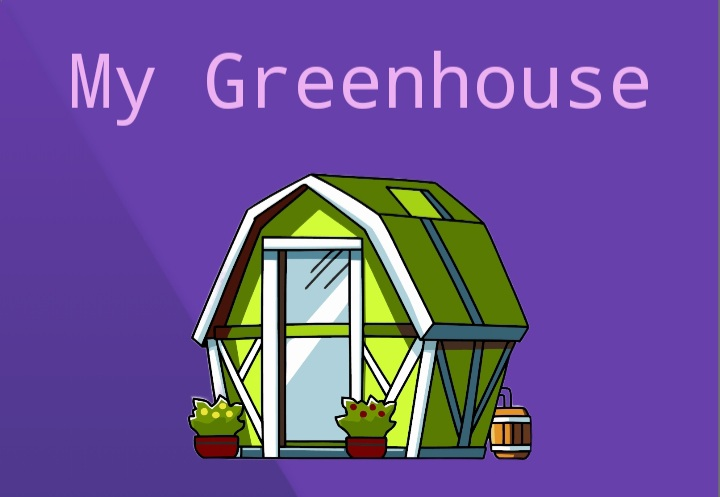
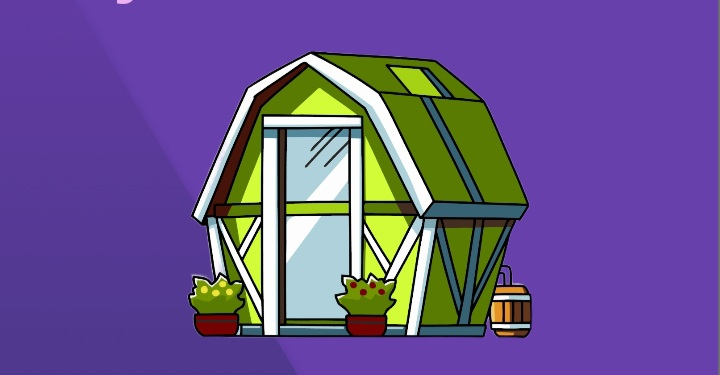
Добавил 3 из своих проектов в сетку
- Ненужный css
+ Работоспособоность 2 кнопок на navbar, сделал плавный скролл
+ Более-менее сделал нормальные фотографии на задние планы проектов

diff --git a/public_html/static/style/style.css b/public_html/static/style/style.css
@@ -4,12 +4,8 @@
     margin: 0;
 }
 
-ul > li {
-    list-style: circle;
-}
-
-.article {
-    text-align: justify;
+html {
+    scroll-behavior: smooth;
 }
 
 section {
@@ -31,12 +27,20 @@ body {
     font-family: 'Roboto', sans-serif;
 }
 
-.title {
-    color: lightblue;
+.section-title {
+    text-align: center;
+    margin-bottom: 5%;
+    font-size: 48px
 }
+
+/* Navbar */
 
 #site-brand {
     max-width: 40px;
+}
+
+#navbar-divizor {
+    display: none;
 }
 
 .navbar {
@@ -71,6 +75,14 @@ body {
     flex-basis: content;
 }
 
+/* Первая секция с краткой информацией обо мне (Лендинг)*/
+
+#myself-top-img {
+    max-width: 367px;
+    max-height: 569px;
+    height: 10%;
+}
+
 .about-me {
     flex-direction: row;
     justify-content: space-between;
@@ -86,68 +98,6 @@ body {
 
 .about-me div * {
     margin-block: 20px;
-}
-
-.projects {
-    display: block;
-}
-
-.project-grid {
-    display: grid;
-    grid-template-rows: repeat(2, 250px);
-    grid-template-columns: repeat(auto-fit, minmax(250px, 1fr));
-    grid-auto-rows: 250px;
-    gap: 1rem;
-}
-
-.project-item {
-    position: relative;
-    overflow: hidden;
-    display: flex;
-    flex-direction: column;
-    justify-content: space-between;
-    background-color: #333;
-    box-shadow: 3px 5px wheat;
-    padding: 10px;
-}
-
-.project-title {
-    width: fit-content;
-    font-weight: bold;
-    font-size: 24px;
-    background-color: #222;
-    padding: 5px;
-}
-
-.project-item *[class^="project"] {
-    z-index: 1;
-}
-
-.transparent-bg {
-    position: absolute;
-    top: 0;
-    left: -10px;
-    object-fit: contain;
-    width: auto;
-    height: 100%;
-    opacity: 0.3;
-    transition: 0.5s;
-}
-
-
-.hover-reveal:hover {
-    opacity: 1;
-    z-index: 2;
-}
-
-#navbar-divizor {
-    display: none;
-}
-
-#myself-top-img {
-    max-width: 367px;
-    max-height: 569px;
-    height: 10%;
 }
 
 .socials {
@@ -177,6 +127,81 @@ body {
     background: url("../img/email.png") no-repeat center;
 }
 
+/* Вторая секция с проектами */
+
+.projects {
+    display: block;
+}
+
+.project-grid {
+    display: grid;
+    grid-template-rows: repeat(2, 250px);
+    grid-template-columns: repeat(auto-fit, minmax(250px, 1fr));
+    grid-auto-rows: 250px;
+    gap: 1rem;
+}
+
+.project-item {
+    position: relative;
+    overflow: hidden;
+    display: flex;
+    flex-direction: column;
+    background-color: #333;
+    box-shadow: 3px 5px wheat;
+    padding: 10px;
+}
+
+.project-title {
+    width: fit-content;
+    font-weight: bold;
+    font-size: 24px;
+    margin-bottom: 10px;
+    background-color: #222;
+    padding: 5px;
+}
+
+.project-item > *[class^="project"] {
+    z-index: 1;
+    text-shadow: 1px 1px blue;
+}
+
+.project-theme {
+    margin-top: auto;
+    font-size: small;
+}
+
+.transparent-bg {
+    position: absolute;
+    top: 0;
+    left: 0;
+    width: 100%;
+    height: 100%;
+    background-size: auto 100%;
+    background-position: center;
+    opacity: 0.15;
+    transition: 0.75s;
+}
+
+.hover-reveal:hover {
+    opacity: 1;
+    z-index: 2;
+}
+
+.greenhouse-bg {
+    background-image: url("../img/greenhouse-bg.jpg");
+}
+
+.discord-bg {
+    background-image: url("../img/discord_bot_bg.png");
+    background-position: left;
+}
+
+.youtube-bg {
+    background-image: url("../img/youtube-bg.png");
+    background-position: left;
+}
+
+
 @media (max-width: 1200px) {
     #myself-top-img {
         width: 100%;
@@ -189,14 +214,8 @@ body {
 }
 
 @media (max-width: 700px) {
-    #myself-top-img {
-        display: none;
-    }
+    /* Navbar */
 
-    .about-me div {
-        width: 100%;
-    }
-    
     .navbar {
         flex-direction: column;
         justify-content: space-between;
@@ -218,14 +237,15 @@ body {
 
     .navbar-links {
         text-align: center;
-        /* border: 2px solid green; */
     }
-}
 
-.small-text {
-    font-size: 0.75em;
-}
+    /* Первая секция обо мне */
 
-.big-text {
-    font-size: 2em;
+    #myself-top-img {
+        display: none;
+    }
+
+    .about-me div {
+        width: 100%;
+    }
 }

diff --git a/public_html/index.html b/public_html/index.html
@@ -17,16 +17,16 @@
     <header>
         <div class="navbar">
             <img src="static/img/hacker.png" id="site-brand">
-            <h2 class="navbar-title">N1qro the dev</h2>
+            <h2 class="navbar-title">andycodes.ru</h2>
             <hr id="navbar-divizor">
             <div class="navbar-links">
-                <a href="#">Обо мне</a>
-                <a href="#">Портфолио</a>
+                <a href="#about-me">Обо мне</a>
+                <a href="#projects">Портфолио</a>
                 <a href="#">Связаться со мной</a>
             </div>
         </div>
     </header>
-    <section class="about-me">
+    <section class="about-me" id="about-me">
         <div>
             <h2>Новиков Андрей</h2>
             <p>- Moscow, Russia</p>
@@ -41,26 +41,26 @@
         </div>
         <img src="static/img/me.png" alt="Andrey" id="myself-top-img">
     </section>
-    <section class="projects">
-        <h2>Мои проекты</h2>
+    <section class="projects" id="projects">
+        <h2 class="section-title">Мои проекты</h2>
         <div class="project-grid">
             <div class="project-item">
-                <img class="transparent-bg hover-reveal" src="static/img/greenhouse-bg.jpg">
+                <div class="transparent-bg greenhouse-bg hover-reveal"></div>
                 <p class="project-title">Greenhouse app</p>
-                <p class="project-description">
-                    Андроид приложение для удалённого управления теплицей.
-                <p class="project-theme">
-                    Созданно специально для предпроф олимпиады школьников. Используя Android Studio и язык Kotlin</p>
-                </p>
+                <p class="project-description">Андроид приложение для удалённого управления теплицей</p>
+                <p class="project-theme">Kotlin + Android Studio</p>
             </div>
             <div class="project-item">
-                <img class="transparent-bg hover-reveal" src="static/img/discord_bot_bg.png">
+                <div class="transparent-bg discord-bg hover-reveal"></div>
                 <p class="project-title">Twitch notification bot</p>
                 <p class="project-description">Дискорд бот, отправщяющий сообщения, когда кто-то из пользователей начинает стримить</p>
-                <p class="project-theme"></p>
+                <p class="project-theme">Python + Pycord + PostgreSQL</p>
             </div>
             <div class="project-item">
-
+                <div class="transparent-bg youtube-bg hover-reveal"></div>
+                <p class="project-title">YouTube video downloader</p>
+                <p class="project-description">Desktop программа для скачки видео с YouTube</p>
+                <p class="project-theme">Python + PyQt5 + PyTube</p>
             </div>
         </div>
     </section>
